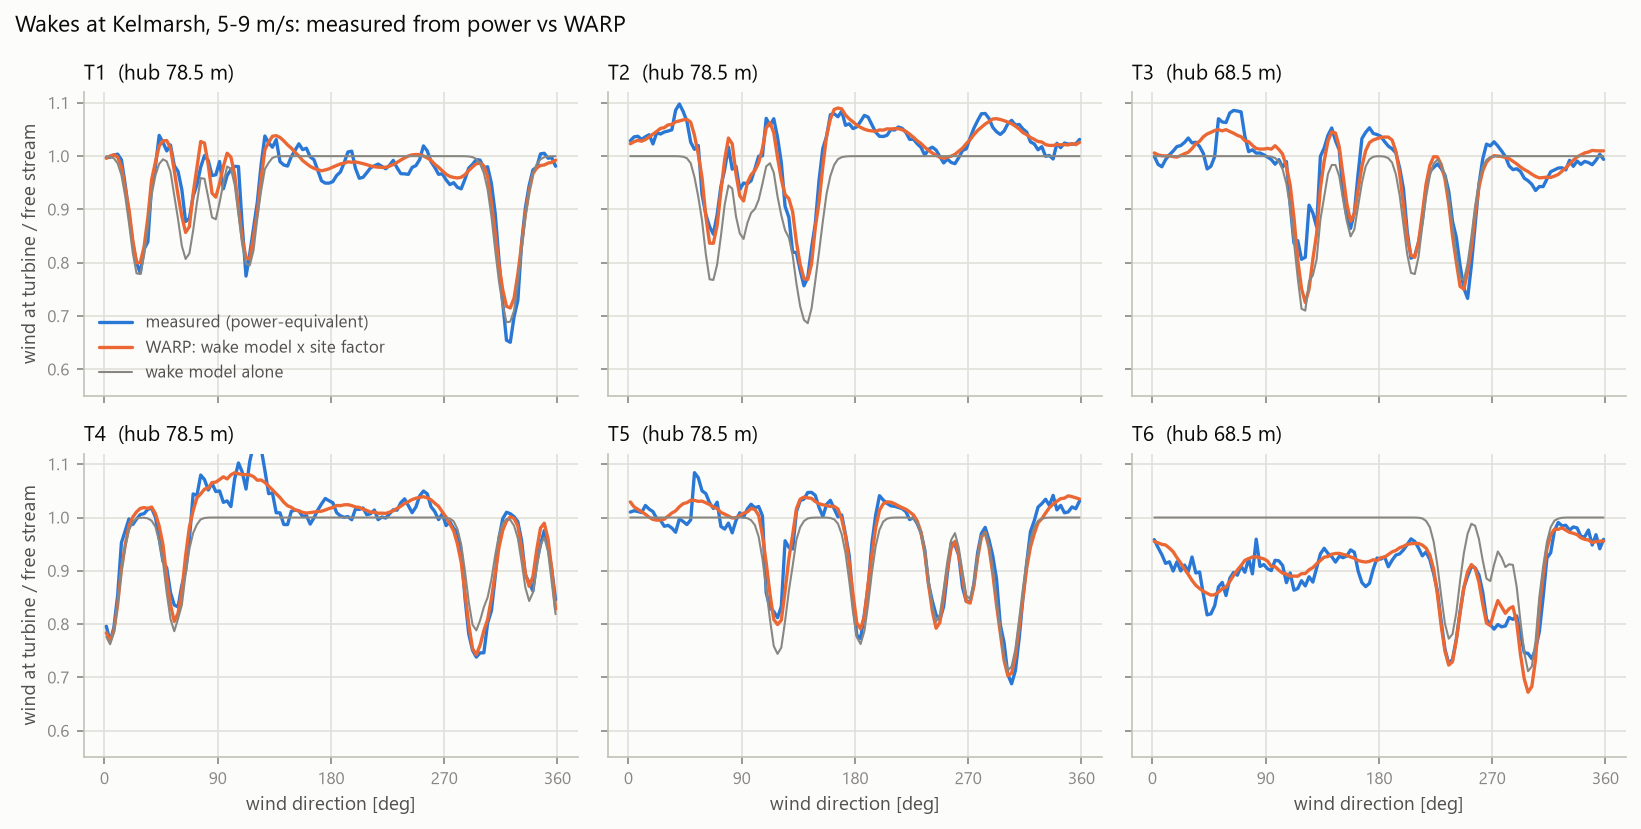
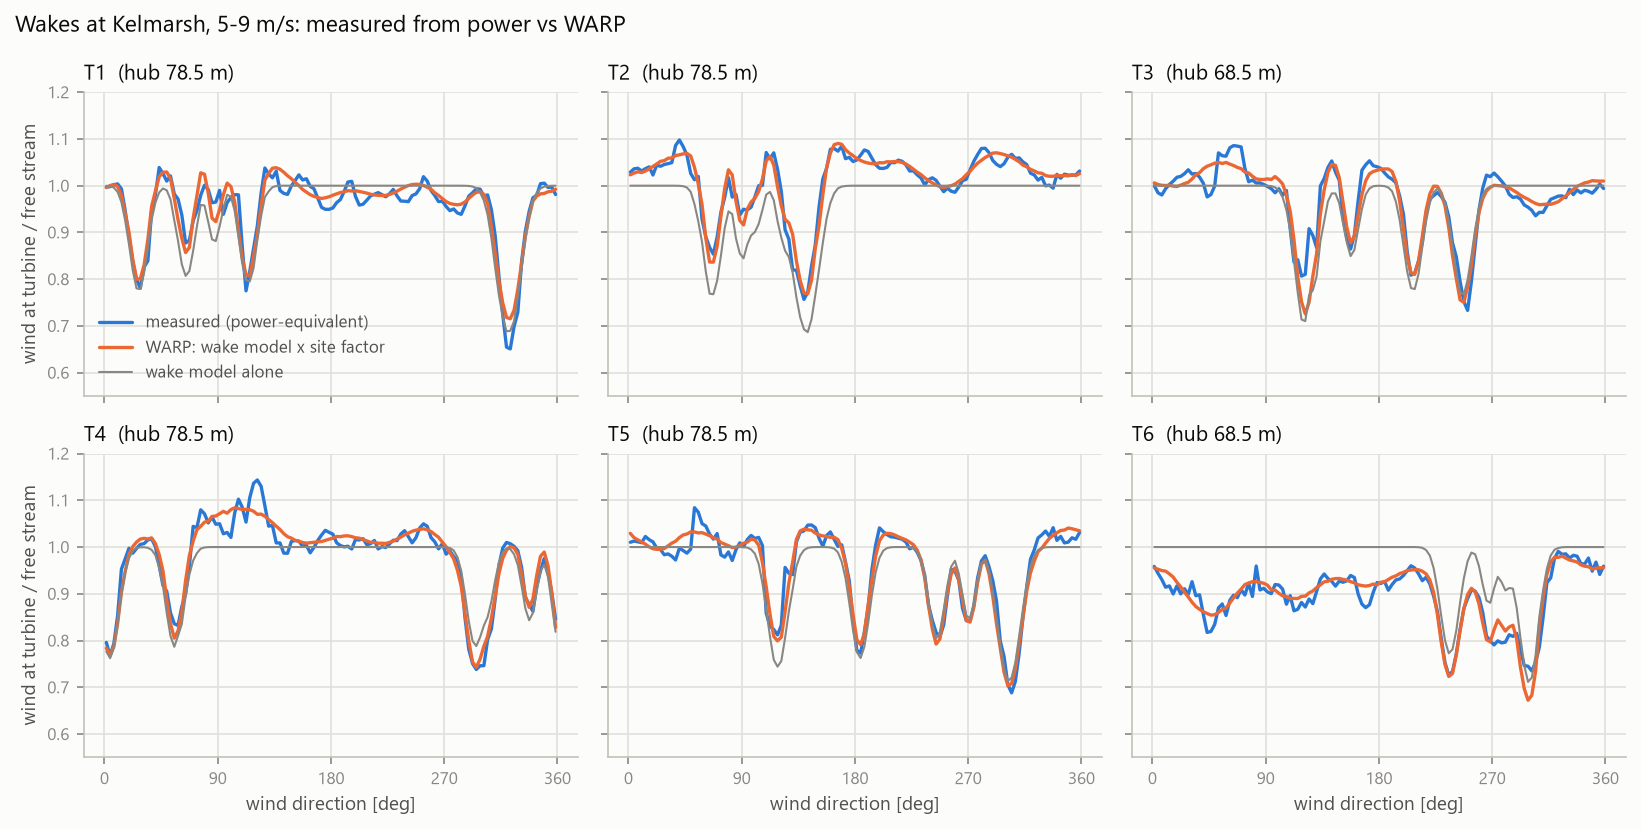
Charts: separated end labels, readable annotations, room for the highest wake bins
Yaw tracker: end labels pushed apart where lines end close together (T3, T6). Example detections: annotations on a light background so the data no longer run through them. Wake validation: upper limit 1.2 (T4 reached above 1.12). Layout only; results unchanged.

diff --git a/src/wake_aware/plots.py b/src/wake_aware/plots.py
@@ -60,7 +60,7 @@ def wake_validation(farm, ref, model, rows, path: Path, bin_deg: float = 3.0):
         ax.plot(wake.index, wake.values, color=MUTED, lw=1.0, label="wake model alone")
         ax.set_title(f"T{farm.turbines[i]}  (hub {farm.hub_height[i]:.1f} m)", loc="left")
         ax.set_xticks(range(0, 361, 90))
-        ax.set_ylim(0.55, 1.12)
+        ax.set_ylim(0.55, 1.2)  # T4's highest bins reach above 1.1
     for ax in axes[1]:
         ax.set_xlabel("wind direction [deg]")
     for ax in axes[:, 0]:
@@ -121,19 +121,20 @@ def example_runs(examples: list[dict], path: Path):
     """Daily statistic and its CUSUM alarm for a few injections (one panel each)."""
     _style()
     fig, axes = plt.subplots(len(examples), 1, figsize=(10, 2.3 * len(examples)))
+    box = {"boxstyle": "round,pad=0.15", "fc": SURFACE, "ec": "none", "alpha": 0.9}  # labels stay readable on data
     for ax, ex in zip(np.atleast_1d(axes), examples):
         dates, x = ex["dates"], ex["values"]
         ax.axvspan(ex["start"], ex["end"], color=SERIES[1], alpha=0.10, lw=0)
         ax.plot(dates, x, color=SERIES[0], lw=1.2, marker="o", ms=2.5)
         ax.axhline(ex["mu"], color=MUTED, lw=1)
         ax.annotate("calibration-year median", (dates[-1], ex["mu"]), xytext=(0, 3), textcoords="offset points",
-                    fontsize=7, color=MUTED, ha="right")
+                    fontsize=7, color=MUTED, ha="right", bbox=box, zorder=5)
         if ex.get("alarm") is not None:
             ax.axvline(ex["alarm"], color=CRITICAL, lw=1.2)
             ax.annotate(f"alarm after {ex['days']:.0f} d", (ex["alarm"], 1), xycoords=("data", "axes fraction"),
-                        xytext=(4, -12), textcoords="offset points", fontsize=8, color=INK2)
+                        xytext=(4, -12), textcoords="offset points", fontsize=8, color=INK2, bbox=box, zorder=5)
         ax.annotate(ex["fault"], (ex["start"], 0), xycoords=("data", "axes fraction"), xytext=(4, 4),
-                    textcoords="offset points", fontsize=8, color=INK2)
+                    textcoords="offset points", fontsize=8, color=INK2, bbox=box, zorder=5)
         ax.set_title(ex["title"], loc="left")
         ax.set_ylabel(ex["ylabel"])
         ax.xaxis.set_major_locator(mdates.MonthLocator())
@@ -171,8 +172,15 @@ def yaw_tracker(monthly_delta: pd.DataFrame, fit: dict, path: Path):
     x = monthly_delta.index.to_timestamp()
     for k, t in enumerate(monthly_delta.columns):
         a1.plot(x, monthly_delta[t], color=SERIES[k % len(SERIES)], lw=1.6, label=f"T{t}")
-        a1.annotate(f"T{t}", (x[-1], monthly_delta[t].iloc[-1]), xytext=(4, 0), textcoords="offset points",
-                    va="center", fontsize=8, color=INK2)
+    # end labels pushed apart where two lines end close together (T3 and T6 in 2021)
+    ends = monthly_delta.iloc[-1].sort_values()
+    span = float(np.nanmax(monthly_delta.to_numpy()) - np.nanmin(monthly_delta.to_numpy()))
+    gap, pos = 0.07 * span, {}
+    for t, v in ends.items():
+        pos[t] = v if not pos else max(v, max(pos.values()) + gap)
+    for t in ends.index:
+        a1.annotate(f"T{t}", (x[-1], pos[t]), xytext=(4, 0), textcoords="offset points", va="center", fontsize=8,
+                    color=INK2)
     a1.axhline(0, color=AXIS, lw=1)
     a1.set_ylabel("nacelle − neighbours' direction, Δ [deg]")
     a1.set_title("Monthly median nacelle offset (baseline 2017 = 0)", loc="left")
